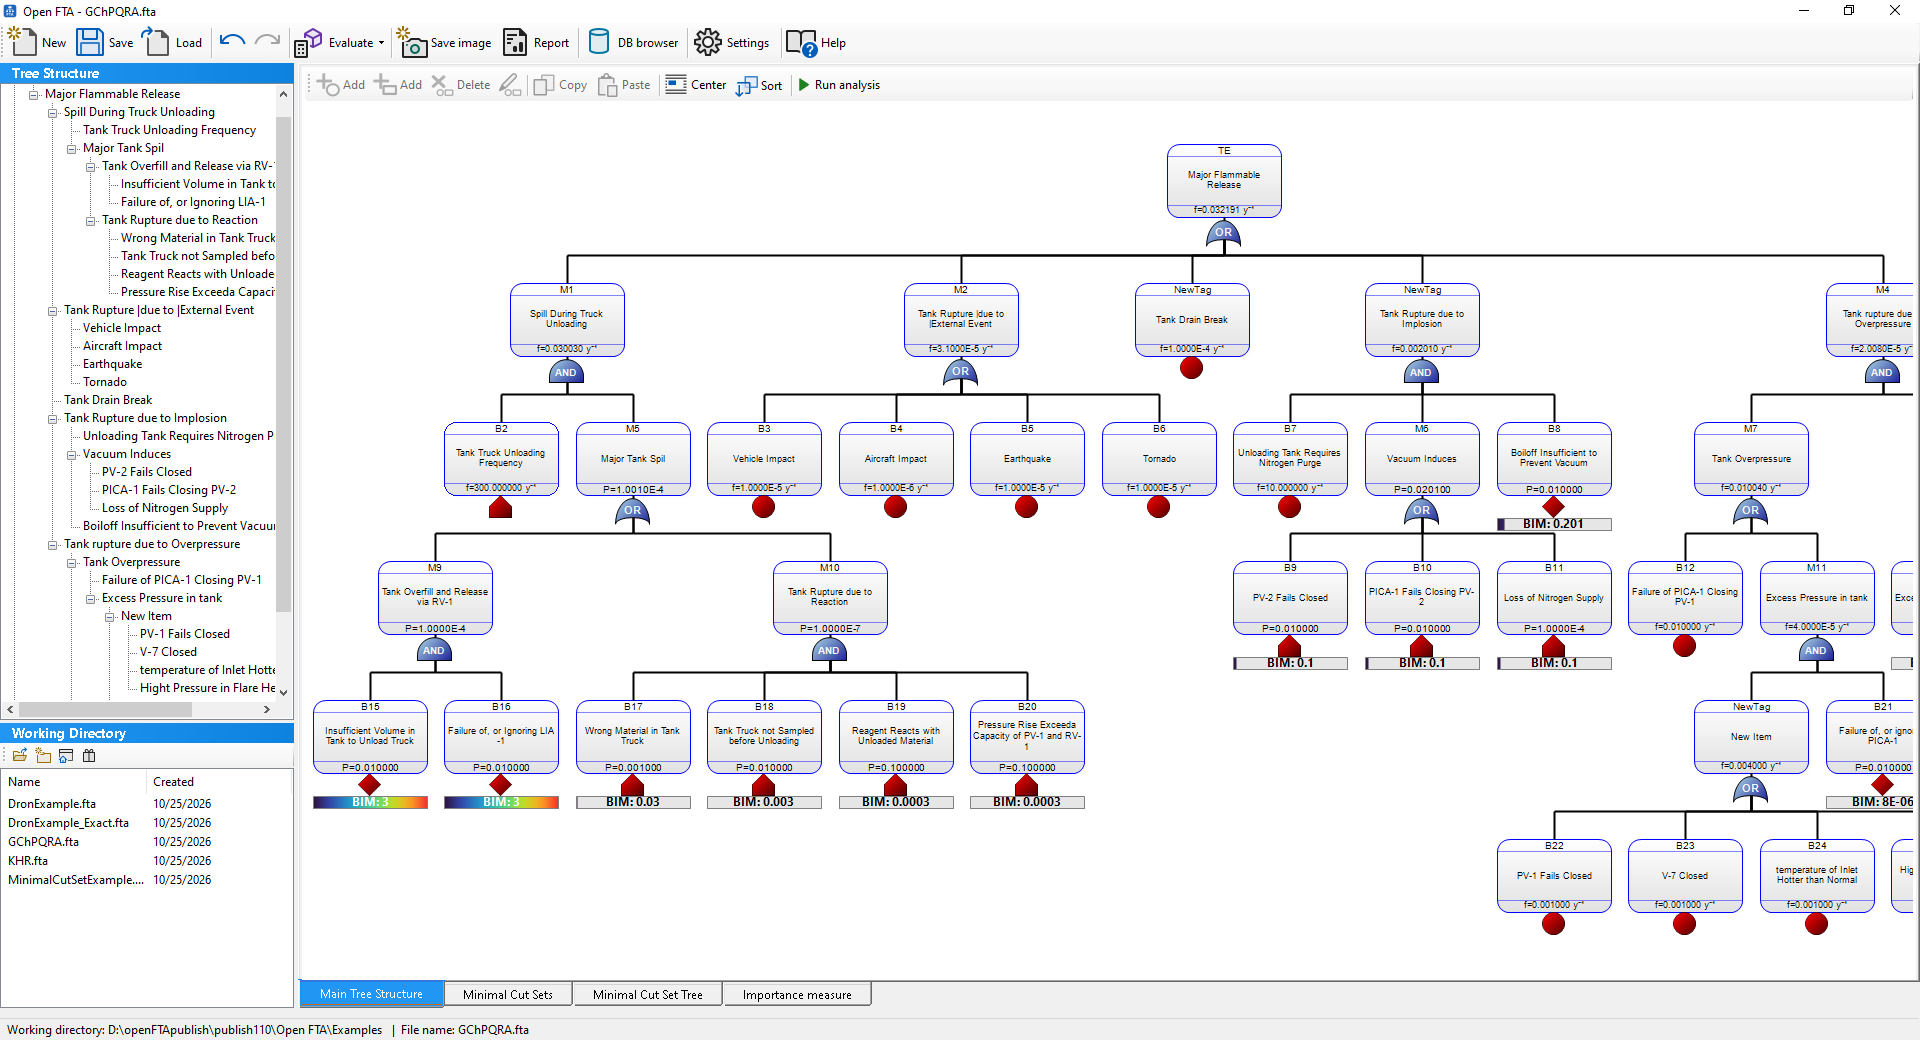
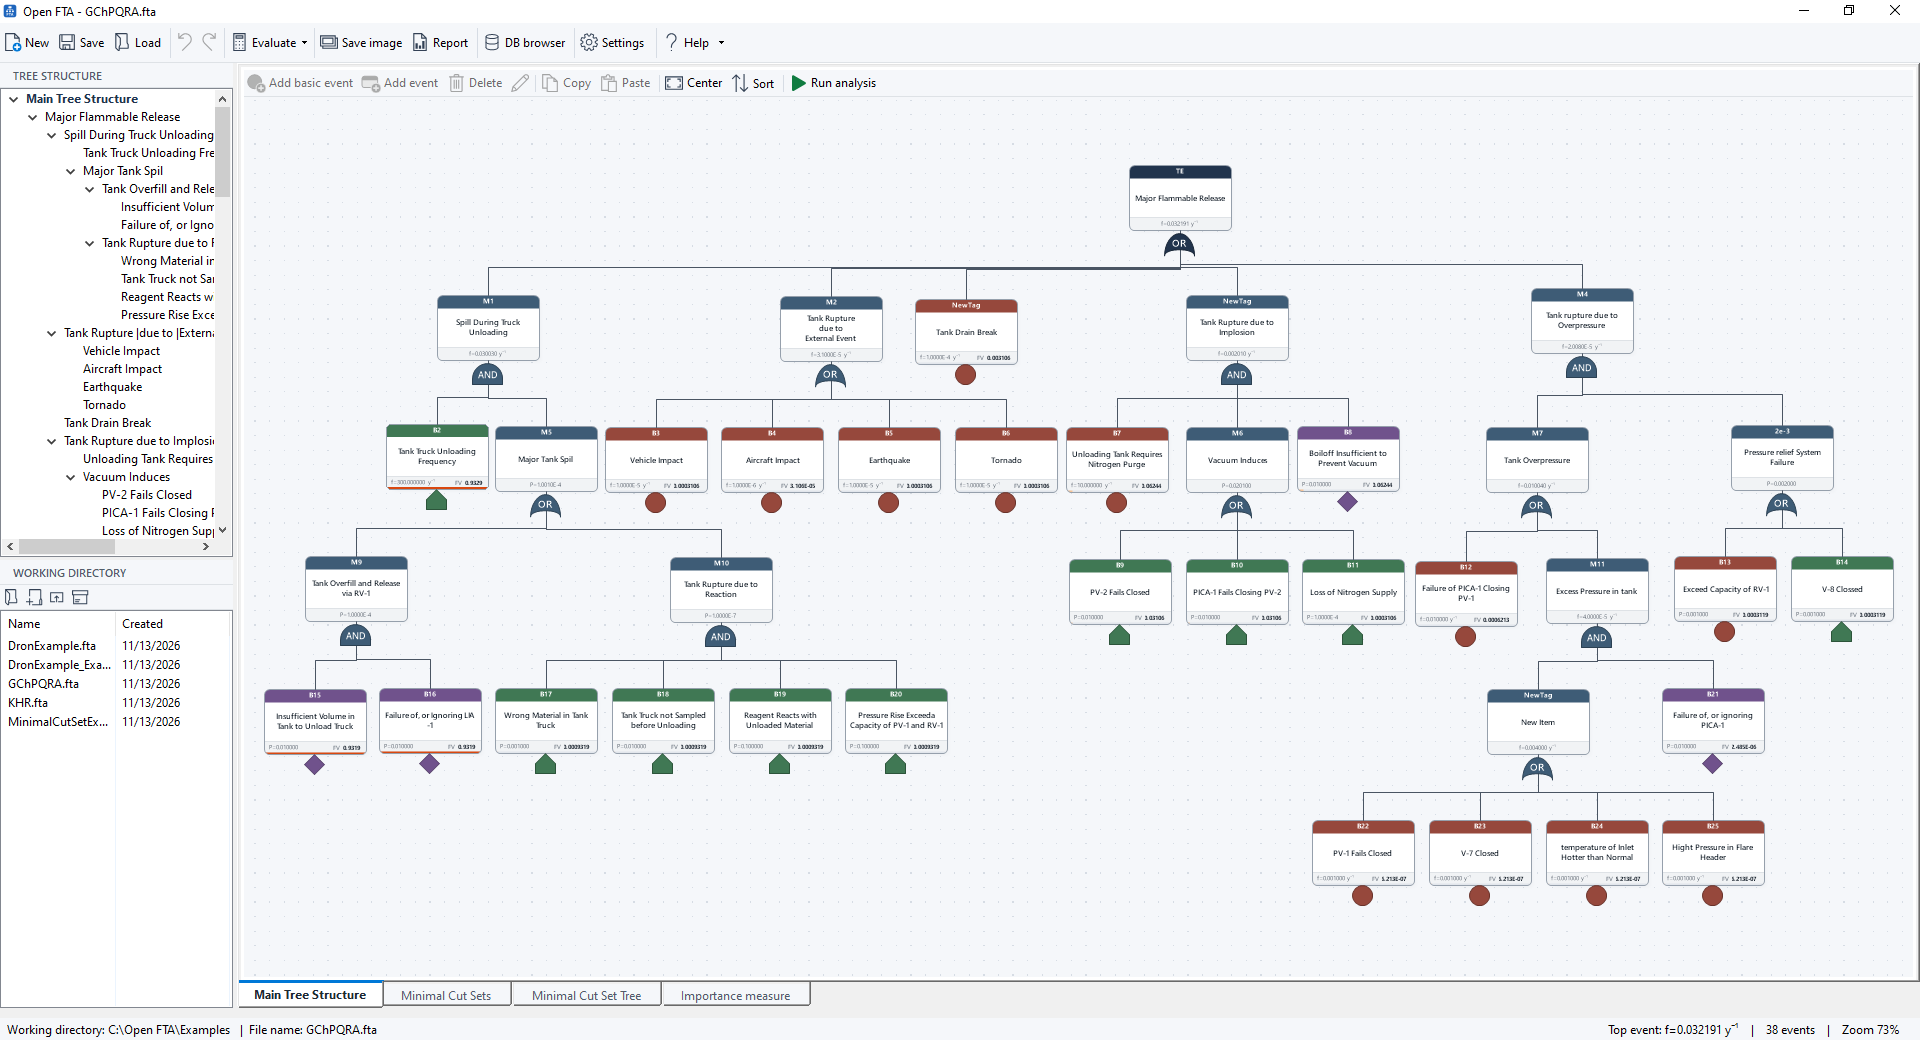
Prepare release 1.2.0

diff --git a/README.md b/README.md
@@ -55,7 +55,9 @@ Because it is open source, the calculations can be checked and audited, and the 
 3. Look at the result of the top event in the tree and browse the tabs **Minimal Cut Sets**, **Minimal Cut Set Tree** and **Importance measure**.
 4. Click **Report** to create a report, or **Save image** to export the tree.
 
-Under **Settings** you can choose the calculation options, the base time unit, the size and spacing of events and the layout algorithm. Settings are kept after restart.
+Under **Settings** you can choose the calculation options, the base time unit, the look, size and spacing of events and the layout algorithm. Settings are kept after restart.
+
+Keyboard shortcuts: Ctrl+N (new), Ctrl+O (open), Ctrl+S (save), F5 (analysis), F1 (help), Ctrl+plus / Ctrl+minus (zoom), Ctrl+0 (center the tree).
 
 ## Building from source
 

diff --git a/Open FTA/Changelog.md b/Open FTA/Changelog.md
@@ -7,6 +7,8 @@ and this project adheres to [Semantic Versioning](https://semver.org/spec/v2.0.0
 
 ## [Unreleased]
 
+## [1.2.0] - 2026-11-13
+
 ### Added
 - Unsaved changes: the title shows * and Open FTA asks whether to save them before closing, opening another file or starting a new tree.
 - Keyboard shortcuts: Ctrl+N (new), Ctrl+O (open), Ctrl+S (save), F5 (analysis of the selected tab), F1 (help), Ctrl+plus / Ctrl+minus (zoom), Ctrl+0 (center the tree); shortcuts are shown in the tool tips.
